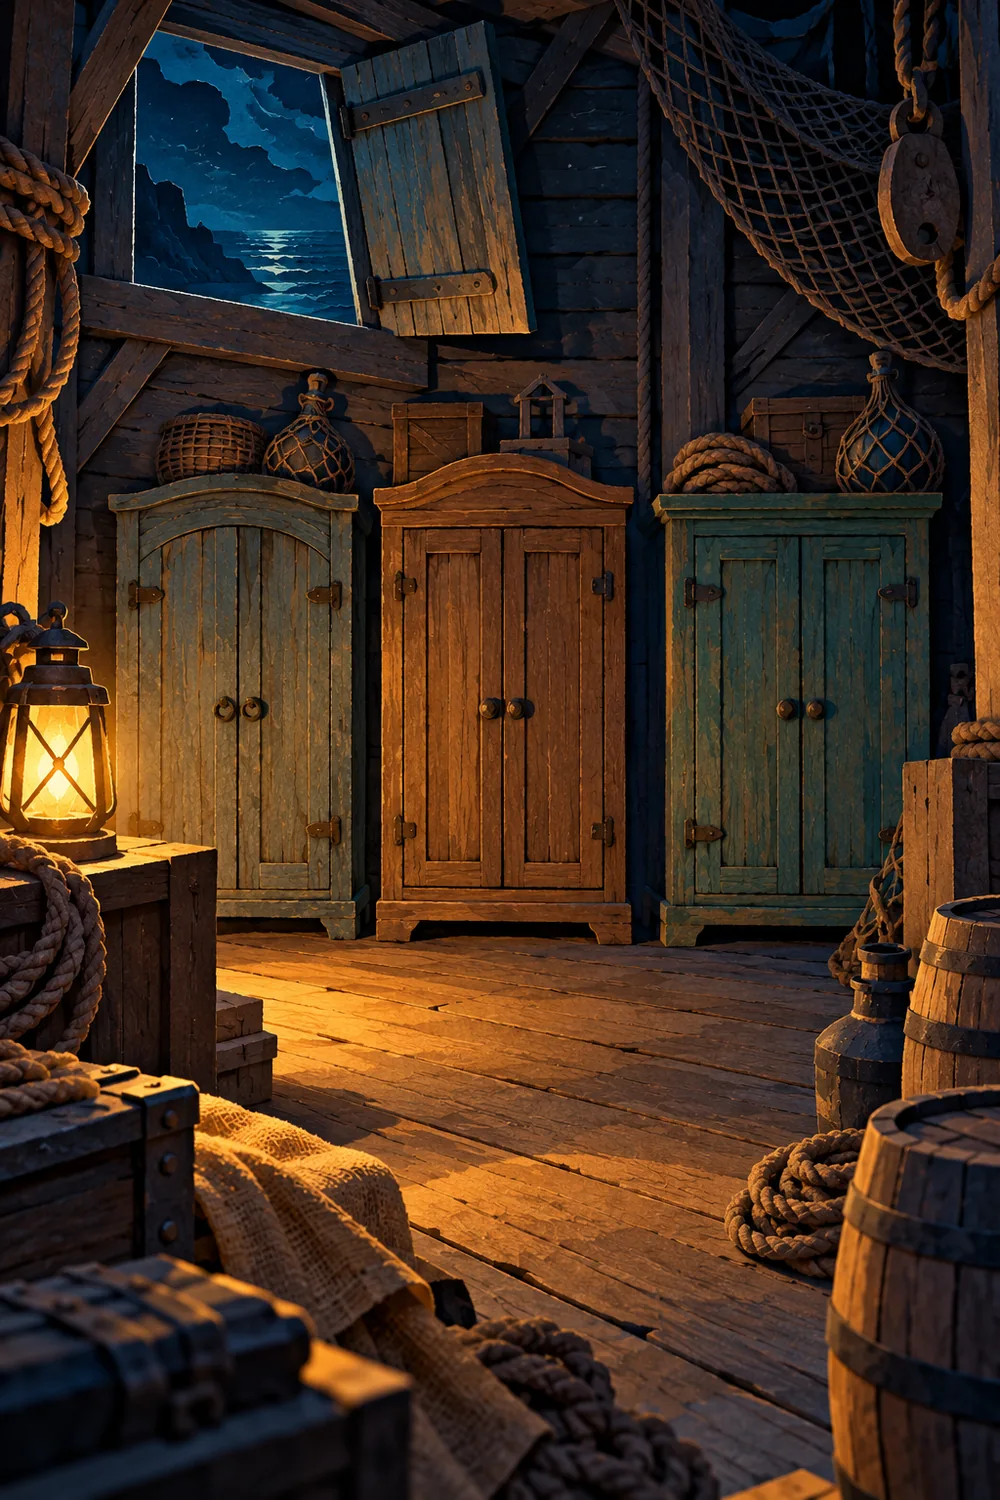
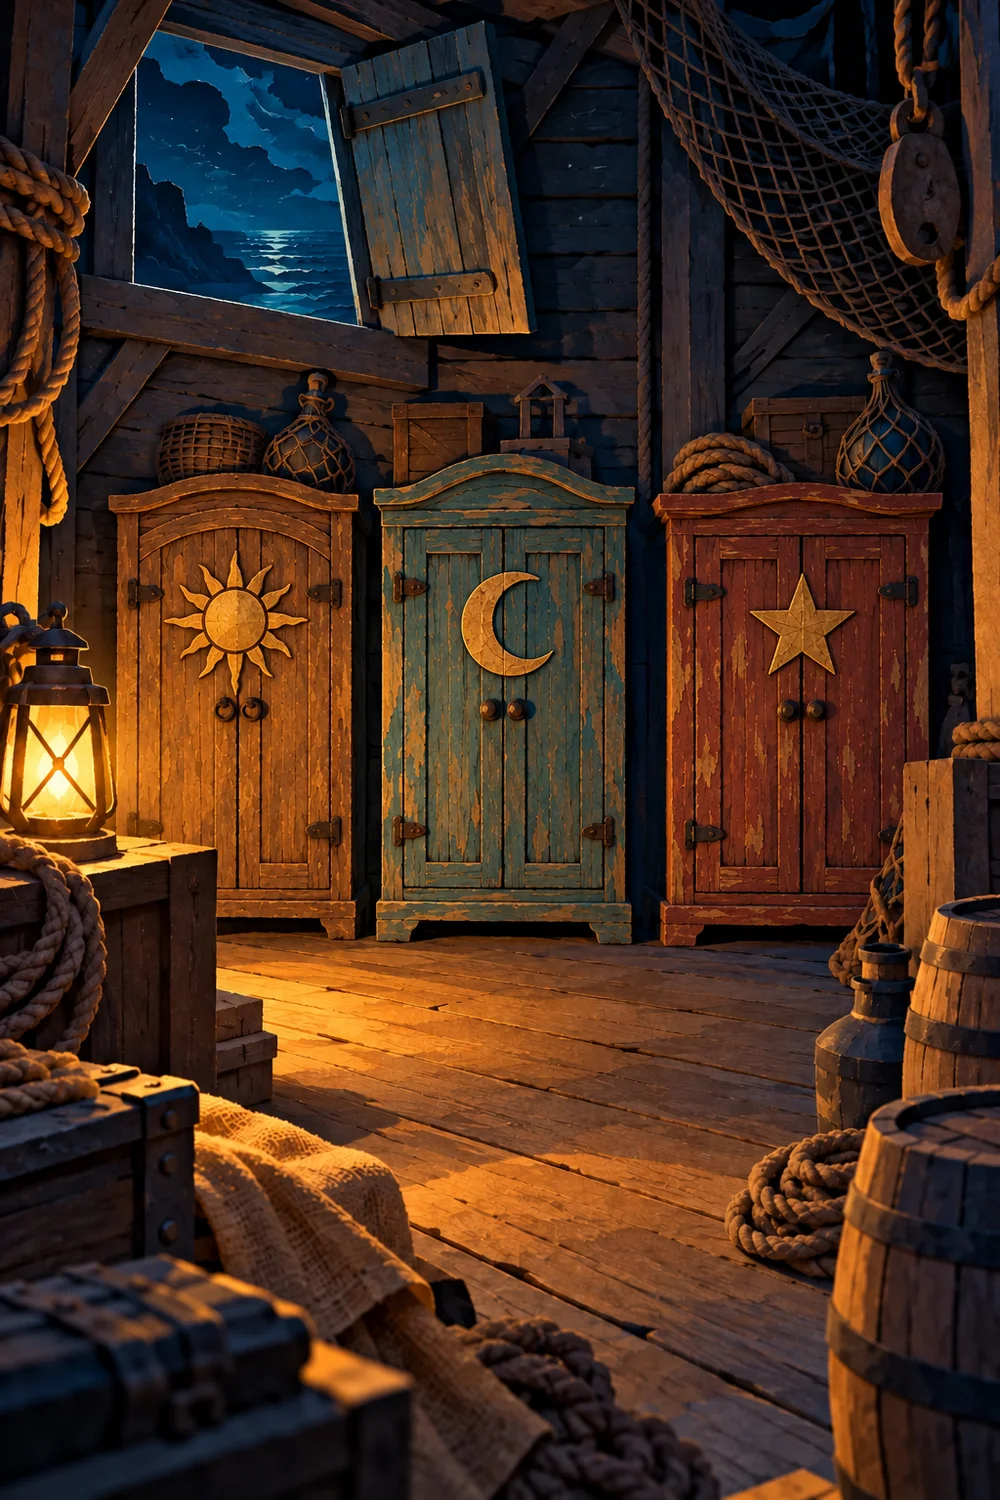
Refine Battle 10 clue and final decoy presentation

diff --git a/public/battle10/app.js b/public/battle10/app.js
@@ -194,13 +194,17 @@ function studentStage() {
   }
   if (stage === 'question') return `<div class="story-stage"><div class="scene scene-${state.scene}"><span class="scene-caption">READING QUESTION ${me.q} / 10</span></div><form id="answer-form" class="parchment question-card"><span class="eyebrow">${state.question.vocabulary ? 'THE NOTEBOOK · VOCABULARY' : 'INVESTIGATE THE PASSAGE'}</span><h2>${esc(state.question.text)}</h2><p class="help">${state.question.vocabulary ? 'Find the exact one word from the passage.' : 'Answer with no more than five words from the passage.'}</p><label for="answer-input" class="sr-only">Your reading answer</label><input id="answer-input" class="answer-input" maxlength="120" autocomplete="off" placeholder="Type your answer here…" value="${esc(ui.answer)}">${btn(ui.busy ? 'Checking…' : 'Submit Answer →', 'submit', 'button gold wide', ui.busy ? 'disabled' : '')}${ui.feedback ? `<div class="feedback ${ui.feedback.startsWith('Correct') ? 'good' : ''}" role="status">${esc(ui.feedback)}</div>` : ''}${me.hint ? `<p class="help"><b>Hint:</b> ${esc(me.hint)}</p>` : ''}</form></div>`;
   if (stage === 'success') return `<div class="story-stage"><div class="scene scene-${state.scene}"><span class="scene-caption">A NEW CLUE</span><div class="character lina"></div></div><div class="parchment success-card"><span class="eyebrow">WELL DONE, INVESTIGATOR</span><h2>Correct!</h2><p>${me.q === 10 ? 'The final classroom search is ready. Find the two hidden keeper’s seals.' : `You can now discover ${esc(state.discovery.name)}.`}</p>${btn(me.q === 10 ? 'Begin final search →' : 'Discover →', 'discover', 'button gold wide', ui.busy ? 'disabled' : '')}</div></div>`;
-  if (stage === 'camera' || stage === 'hunt' || stage === 'star') return cameraStage();
+  if (stage === 'camera') return discoveryStage();
+  if (stage === 'hunt' || stage === 'star') return cameraStage();
   if (stage === 'complete') return `<div class="story-stage"><div class="scene scene-4"><span class="scene-caption">THE HARBOUR SHINES AGAIN</span><div class="character mara support"></div><div class="character lina"></div><div class="character rafi"></div></div><div class="parchment ending-card"><span class="eyebrow">ADVENTURE COMPLETE</span><h1>The Lantern Keeper’s Secret</h1><p>With Mara's repairs complete, Lina and Rafi returned the glass star to the beacon. Blue light swept across the harbour. One by one, the waiting boats began to move.</p><p><b>THE LANTERN KEEPER’S SECRET — ADVENTURE COMPLETE</b></p>${btn('Review your journal', 'journal', 'button gold wide')}</div></div>`;
   return `<div class="parchment"><h2>Your adventure is loading…</h2></div>`;
 }
+function discoveryStage() {
+  return `<div class="story-stage discovery-stage"><div class="scene scene-${state.scene}"><span class="scene-caption">DISCOVERY ${state.me.q} / 9</span></div><div class="parchment discovery-card"><span class="eyebrow">A NEW CLUE APPEARS</span><h2>${esc(state.discovery.name)}</h2><div class="discovery-art" role="img" aria-label="Illustrated clue: ${esc(state.discovery.name)}">${evidence(state.me.q)}</div><p>${esc(state.discovery.action)}</p>${btn(ui.busy ? 'Collecting…' : 'Collect clue →', 'collect', 'button gold wide', ui.busy ? 'disabled' : '')}</div></div>`;
+}
 function cameraStage() {
   const stage = state.me.stage, isHunt = stage === 'hunt';
-  return `<div class="camera-view"><video id="camera-video" autoplay playsinline muted aria-label="Live camera view"></video>${isHunt ? '<div class="scan-frame"></div>' : ''}<div class="camera-head"><span class="eyebrow">${stage === 'camera' ? `DISCOVERY ${state.me.q} / 9` : stage === 'star' ? 'THE GENUINE SEAL' : 'FINAL CLASSROOM HUNT'}</span><h2>${stage === 'camera' ? esc(state.discovery.name) : stage === 'star' ? 'The moon cupboard opens!' : 'Find the keeper’s hidden seal'}</h2></div>${stage === 'camera' ? `<button type="button" class="camera-object" data-action="collect" aria-label="${esc(state.discovery.action)}">${evidence(state.me.q)}<span>${esc(state.discovery.action)}</span></button>` : stage === 'star' ? `<button type="button" class="star-card" data-action="star" aria-label="Tap to collect the glass star"><span class="glass-star"></span><b>Tap to collect the glass star</b></button>` : ''}<div class="camera-foot"><div class="camera-hint">${stage === 'camera' ? 'Point your camera anywhere safe, then tap the illustrated clue. If your camera is unavailable, you can still collect it.' : stage === 'star' ? 'Tap the glowing star to restore the beacon.' : 'Scan either printed keeper seal here. A decoy is harmless; keep searching until you find the real one.'}</div>${ui.cameraError ? `<div class="feedback">${esc(ui.cameraError)}</div>` : ''}<div class="camera-controls">${!media ? btn('Open rear camera', 'open-camera', 'button gold tiny') : btn('Close camera', 'close-camera', 'button ghost tiny')}${isHunt ? btn('Enter seal code instead', 'manual-seal', 'button ghost tiny') : ''}</div></div></div>`;
+  return `<div class="camera-view"><video id="camera-video" autoplay playsinline muted aria-label="Live camera view"></video>${isHunt && !ui.decoy ? '<div class="scan-frame"></div>' : ''}<div class="camera-head"><span class="eyebrow">${stage === 'star' ? 'THE GENUINE SEAL' : ui.decoy ? 'A FALSE LEAD' : 'FINAL CLASSROOM HUNT'}</span><h2>${stage === 'star' ? 'The moon cupboard opens!' : ui.decoy ? 'The star cupboard opens!' : 'Find the keeper’s hidden seal'}</h2></div>${stage === 'star' ? `<button type="button" class="star-card" data-action="star" aria-label="Tap to collect the glass star"><span class="glass-star"></span><b>Tap to collect the glass star</b></button>` : ui.decoy ? `<button type="button" class="star-card decoy-card" data-action="close-decoy" aria-label="Ha ha! You found the decoy. Tap the star cupboard to keep searching"><span class="decoy-object" aria-hidden="true"></span><b>Ha ha! You found the decoy! Tap to keep searching.</b></button>` : ''}<div class="camera-foot"><div class="camera-hint">${stage === 'star' ? 'Tap the glowing star to restore the beacon.' : ui.decoy ? 'The real seal is still hidden. You can scan this decoy again, but keep searching for the genuine seal.' : 'Scan either printed keeper seal here. A decoy is harmless; keep searching until you find the real one.'}</div>${ui.cameraError ? `<div class="feedback">${esc(ui.cameraError)}</div>` : ''}<div class="camera-controls">${!media ? btn('Open rear camera', 'open-camera', 'button gold tiny') : btn('Close camera', 'close-camera', 'button ghost tiny')}${isHunt ? btn('Enter seal code instead', 'manual-seal', 'button ghost tiny') : ''}</div></div></div>`;
 }
 function readerPage(projector = false, initial = false) {
   const page = Math.max(1, Math.min(6, ui.readerPage)), paragraph = state.passage?.[page - 1] || '';
@@ -209,7 +213,6 @@ function readerPage(projector = false, initial = false) {
   return `<article class="reader-page ${projector ? 'projector-reader' : ''}"><div class="reader-heading"><span class="eyebrow">THE LANTERN KEEPER’S SECRET</span><h2>Paragraph ${page} of 6</h2><div class="reader-progress" aria-label="Paragraph ${page} of 6"><span style="width:${page * 100 / 6}%"></span></div></div><img class="reader-illustration" src="./assets/reader-${page}.webp" alt="Illustration for paragraph ${page} of the Lantern House story"><div class="reader-text parchment"><p><b>[${page}]</b> ${esc(paragraph)}</p></div>${numbers}<div class="reader-controls">${btn('← Previous Paragraph', 'reader-prev', 'button ghost', page === 1 ? 'disabled' : '')}${page < 6 ? btn('Next Paragraph →', 'reader-next', 'button gold') : end}</div>${!initial && page < 6 ? `<div class="reader-return">${end}</div>` : ''}</article>`;
 }
 function modal() {
-  if (ui.decoy) return `<div class="modal-backdrop"><section class="modal decoy-modal"><img src="./assets/decoy-reveal.webp" alt="A playful goose hides among paper decorations; this is not the glass star"><div class="parchment decoy-message"><h2>Ha ha! You found the decoy!</h2><p>The real seal is still hidden. Keep searching!</p>${btn('Keep searching →', 'close-decoy', 'button gold wide')}</div></section></div>`;
   if (ui.modal === 'story' || ui.modal === 'teacher-passage') return `<div class="modal-backdrop"><section class="modal reader-modal ${ui.modal === 'teacher-passage' ? 'teacher-reader-modal' : ''}"><div class="modal-head"><h2>Read Passage</h2>${btn('Close', 'close-modal', 'button ghost tiny')}</div>${readerPage(ui.modal === 'teacher-passage')}</section></div>`;
   if (ui.modal === 'journal') return `<div class="modal-backdrop"><section class="modal"><div class="modal-head"><h2>Investigation Journal</h2>${btn('Close', 'close-modal', 'button ghost tiny')}</div><p class="muted">Only clues you have actually collected appear here. Replaying a scene never grants another discovery.</p><div class="journal-list">${state.journal.map(item => `<article class="journal-item">${item.number === 10 ? '<span class="glass-star"></span>' : evidence(item.number)}<b>${esc(item.name)}</b><small>${esc(item.evidence)}</small></article>`).join('') || '<p>No discoveries yet. Follow the story to begin.</p>'}</div><hr>${state.dialogueHistory?.length ? `<h3>Replay story scenes</h3><div class="camera-controls">${state.dialogueHistory.map(row => btn(`Scene ${row.question}`, `replay-${row.question}`, 'button ghost tiny')).join('')}</div>` : ''}</section></div>`;
   if (ui.modal === 'replay') { const row = state.dialogueHistory?.find(item => item.question === ui.replay); return `<div class="modal-backdrop"><section class="modal"><div class="modal-head"><h2>Scene ${ui.replay} · Replay</h2>${btn('Close', 'close-modal', 'button ghost tiny')}</div><div class="parchment">${row ? row.lines.map(([speaker, text]) => `<p><b>${esc(speaker)}:</b> ${esc(text)}</p>`).join('') : '<p>This scene is not unlocked yet.</p>'}</div></section></div>`; }
@@ -229,11 +232,11 @@ function render() {
 }
 
 async function openCamera() {
-  if (!['success', 'camera', 'hunt', 'star', 'hunt-dialogue'].includes(state?.me?.stage) || media) return;
+  if (!['hunt', 'star', 'hunt-dialogue'].includes(state?.me?.stage) || media) return;
   if (!navigator.mediaDevices?.getUserMedia) { ui.cameraError = 'This browser has no camera access. Your reading progress is safe.'; render(); return; }
   try {
     media = await navigator.mediaDevices.getUserMedia({ audio: false, video: { facingMode: { ideal: 'environment' }, width: { ideal: 640 }, height: { ideal: 480 } } });
-    if (!['camera', 'hunt', 'star'].includes(state?.me?.stage) && !(state?.me?.stage === 'success' && pending?.type === 'student:discover') && !(state?.me?.stage === 'hunt-dialogue' && state.me.dialogueIndex === 1)) { stopCamera(); return; }
+    if (!['hunt', 'star'].includes(state?.me?.stage) && !(state?.me?.stage === 'hunt-dialogue' && state.me.dialogueIndex === 1)) { stopCamera(); return; }
     ui.cameraError = ''; render();
     if (state?.me?.stage === 'hunt' && !scanFrame) scanLoop();
   } catch { ui.cameraError = 'Camera unavailable or permission denied. Your completed answers are saved. For the final hunt, use a printed seal code or another camera-enabled phone.'; render(); }
@@ -295,7 +298,7 @@ app.addEventListener('click', event => {
     void sendAction('student:dialogue-next'); return;
   }
   if (action === 'submit') { void sendAction('student:submit', { questionNumber: state.me.q, answer: ui.answer }); return; }
-  if (action === 'discover') { if (state?.me?.q < 10) void openCamera(); void sendAction('student:discover'); return; }
+  if (action === 'discover') { void sendAction('student:discover'); return; }
   if (action === 'collect') { void sendAction('student:collect'); return; }
   if (action === 'star') { void sendAction('student:star'); return; }
   if (action === 'story' || action === 'journal' || action === 'manual-seal') { if (action === 'story') ui.readerPage = 1; ui.modal = action; render(); return; }

diff --git a/test/battle10/frontend.test.js b/test/battle10/frontend.test.js
@@ -1,0 +1,67 @@
+import test from 'node:test';
+import assert from 'node:assert/strict';
+import { readFileSync } from 'node:fs';
+import { randomUUID } from 'node:crypto';
+import vm from 'node:vm';
+
+const source = readFileSync(new URL('../../public/battle10/app.js', import.meta.url), 'utf8');
+
+function frontend() {
+  const app = { innerHTML: '', addEventListener() {} };
+  const announcer = { textContent: '' };
+  let cameraRequests = 0;
+  const document = { getElementById(id) { return id === 'app' ? app : id === 'announcer' ? announcer : null; }, addEventListener() {} };
+  const window = { addEventListener() {}, scrollTo() {} };
+  window.parent = window;
+  const context = vm.createContext({
+    document, window, navigator: { onLine: true, mediaDevices: { async getUserMedia() { cameraRequests++; return { getTracks: () => [] }; } } },
+    location: { origin: 'https://example.test', search: '' }, history: { replaceState() {} }, URLSearchParams,
+    localStorage: { getItem() { return null; }, setItem() {}, removeItem() {} },
+    sessionStorage: { getItem() { return null; }, setItem() {} },
+    crypto: { randomUUID }, setInterval() {}, setTimeout() {}, clearTimeout() {},
+    requestAnimationFrame() { return 0; }, cancelAnimationFrame() {}, AbortController,
+  });
+  vm.runInContext(source.slice(0, source.lastIndexOf('initialRoute();')) + `
+    globalThis.frontend = {
+      ui, render, openCamera,
+      setStage(stage) {
+        mode = 'join'; pin = '12345'; token = 'student-token';
+        state = { pin, role: 'student', phase: 'active', scene: 2,
+          me: { name: 'Reader', q: stage === 'hunt' || stage === 'star' ? 10 : 2, stage, completed: 2, discoveries: [] },
+          discovery: { name: 'Damp cloth', action: 'Inspect the damp surface' },
+          journal: [], dialogueHistory: [] };
+        render();
+      }
+    };
+  `, context);
+  return { app, control: context.frontend, cameraRequests: () => cameraRequests };
+}
+
+test('questions 1–9 show a collectible illustrated clue without requesting a camera', async () => {
+  const h = frontend();
+  h.control.setStage('camera');
+  assert.match(h.app.innerHTML, /Damp cloth/);
+  assert.match(h.app.innerHTML, /data-action="collect"/);
+  assert.match(h.app.innerHTML, /class="discovery-art"/);
+  assert.doesNotMatch(h.app.innerHTML, /<video|Open rear camera|Point your camera/);
+  await h.control.openCamera();
+  assert.equal(h.cameraRequests(), 0);
+});
+
+test('the final hunt retains camera scanning and shows the decoy as an in-camera object', async () => {
+  const h = frontend();
+  h.control.setStage('hunt');
+  assert.match(h.app.innerHTML, /<video id="camera-video"/);
+  assert.match(h.app.innerHTML, /scan-frame/);
+  await h.control.openCamera();
+  assert.equal(h.cameraRequests(), 1);
+  h.control.ui.decoy = true;
+  h.control.render();
+  assert.match(h.app.innerHTML, /decoy-card/);
+  assert.match(h.app.innerHTML, /decoy-object/);
+  assert.match(h.app.innerHTML, /Ha ha! You found the decoy!/);
+  assert.doesNotMatch(h.app.innerHTML, /scan-frame|decoy-modal|modal-backdrop/);
+  h.control.ui.decoy = false;
+  h.control.setStage('star');
+  assert.match(h.app.innerHTML, /glass-star/);
+});

diff --git a/public/battle10/reader.css b/public/battle10/reader.css
@@ -78,11 +78,15 @@
 .phone .reader-text p { font-size: clamp(19px, 4vw, 23px); line-height: 1.57; }
 .phone .reader-controls { display: flex; flex-direction: column; }
 .phone .reader-controls .button { width: 100%; }
-.decoy-modal { width: min(100%, 570px); text-align: center; }
-.decoy-modal img { display: block; width: 100%; max-height: 53dvh; object-fit: contain; border-radius: 12px; background: #0c243a; }
-.decoy-message { margin: 12px 0 0; }
-.decoy-message h2 { color: #203950; }
-.decoy-message p { font-size: 19px; margin-bottom: 16px; }
+.discovery-stage .scene { min-height: 230px; }
+.discovery-card { z-index: 4; margin: -35px 13px 20px; text-align: center; }
+.discovery-card .eyebrow { color: #875d35; }
+.discovery-card p { margin: 10px 0 18px; font-weight: 700; }
+.discovery-art { width: min(100%, 300px); margin: 13px auto; padding: 9px; border: 2px solid #c4a77c; border-radius: 20px; background: radial-gradient(circle, #274b63, #102c44); box-shadow: inset 0 0 25px #091b30, 0 9px 24px #102b3c50; }
+.discovery-art .evidence { width: 100%; aspect-ratio: 1; }
+.decoy-card { top: 43%; width: min(70%, 260px); color: #ffe3a5; }
+.decoy-object { display: block; width: 100%; aspect-ratio: 1000 / 936; background: url('./assets/decoy-object.webp') center / contain no-repeat; filter: drop-shadow(0 0 15px #e0a86f); }
+.decoy-card b { border: 1px solid #d2a576; font-size: clamp(13px, 3.3vw, 17px); line-height: 1.3; }
 @media (max-width: 700px) {
   .reader-page { display: block; padding: 10px; }
   .reader-heading, .reader-illustration, .reader-text, .reader-jumps, .reader-controls, .reader-return { margin-bottom: 12px; }
